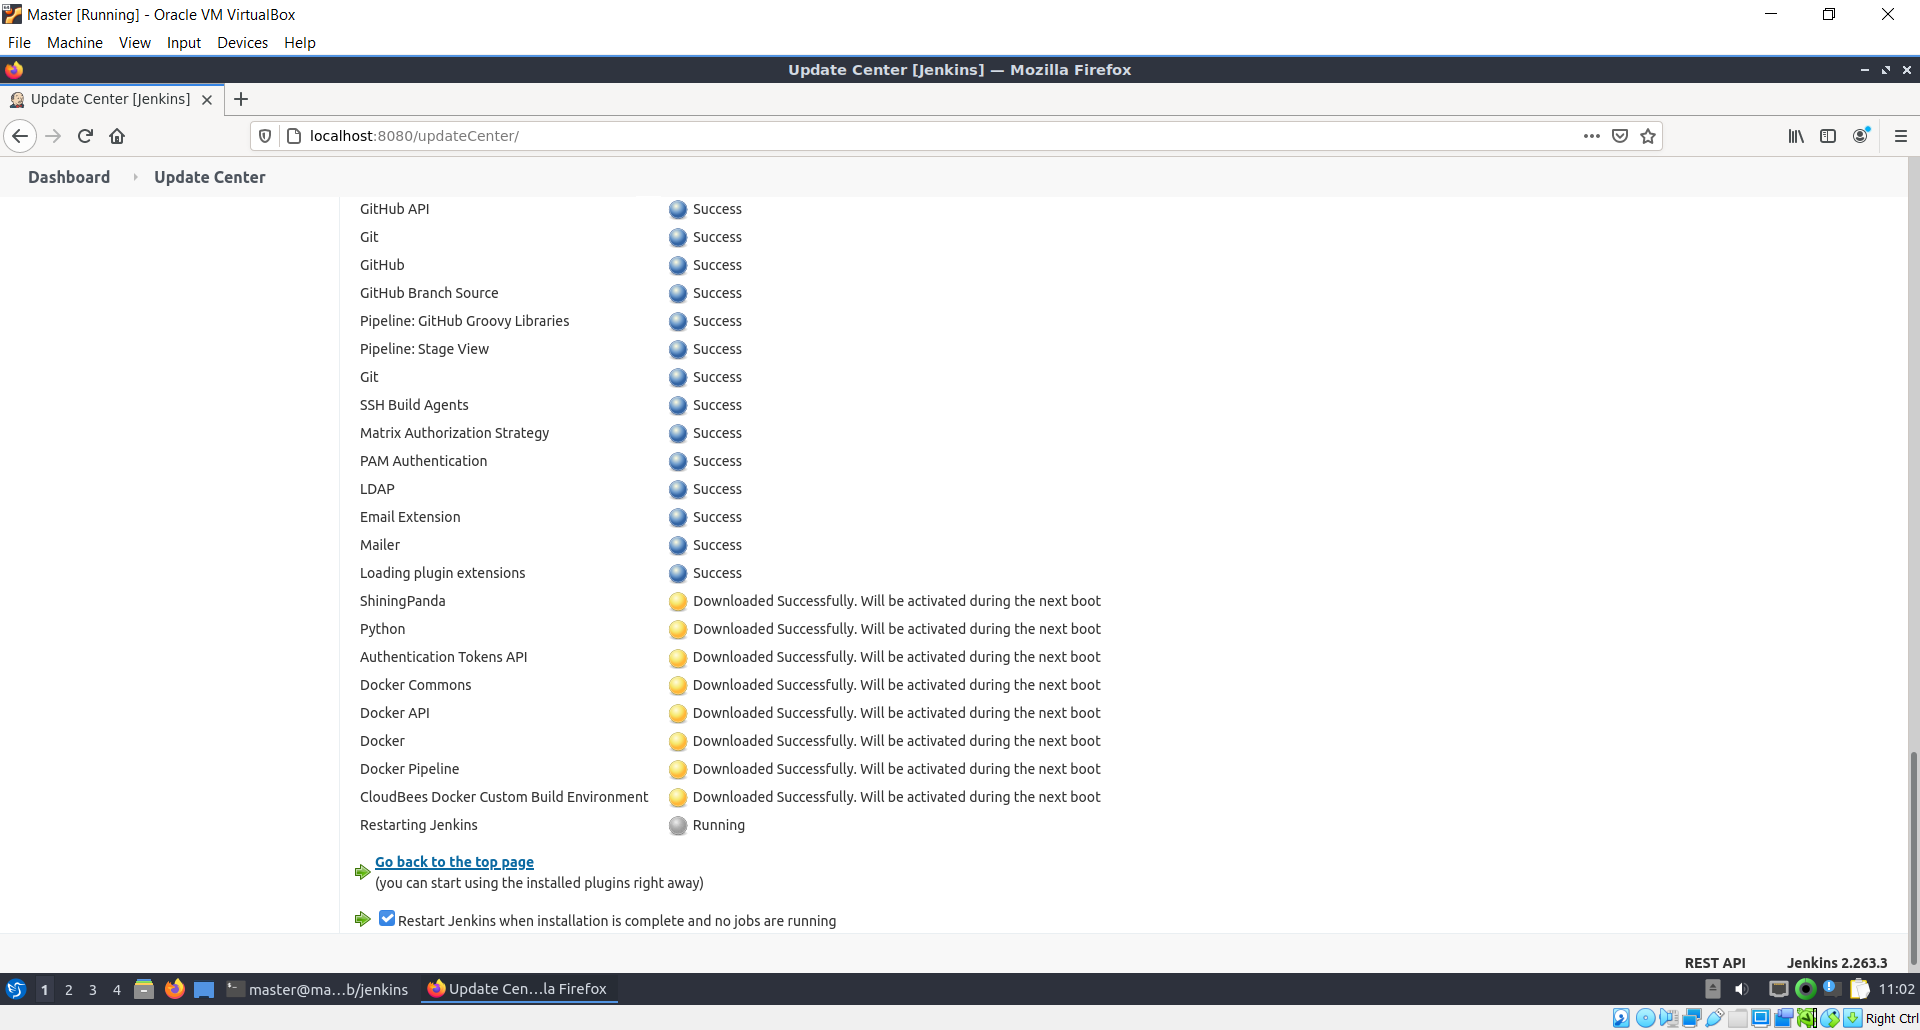
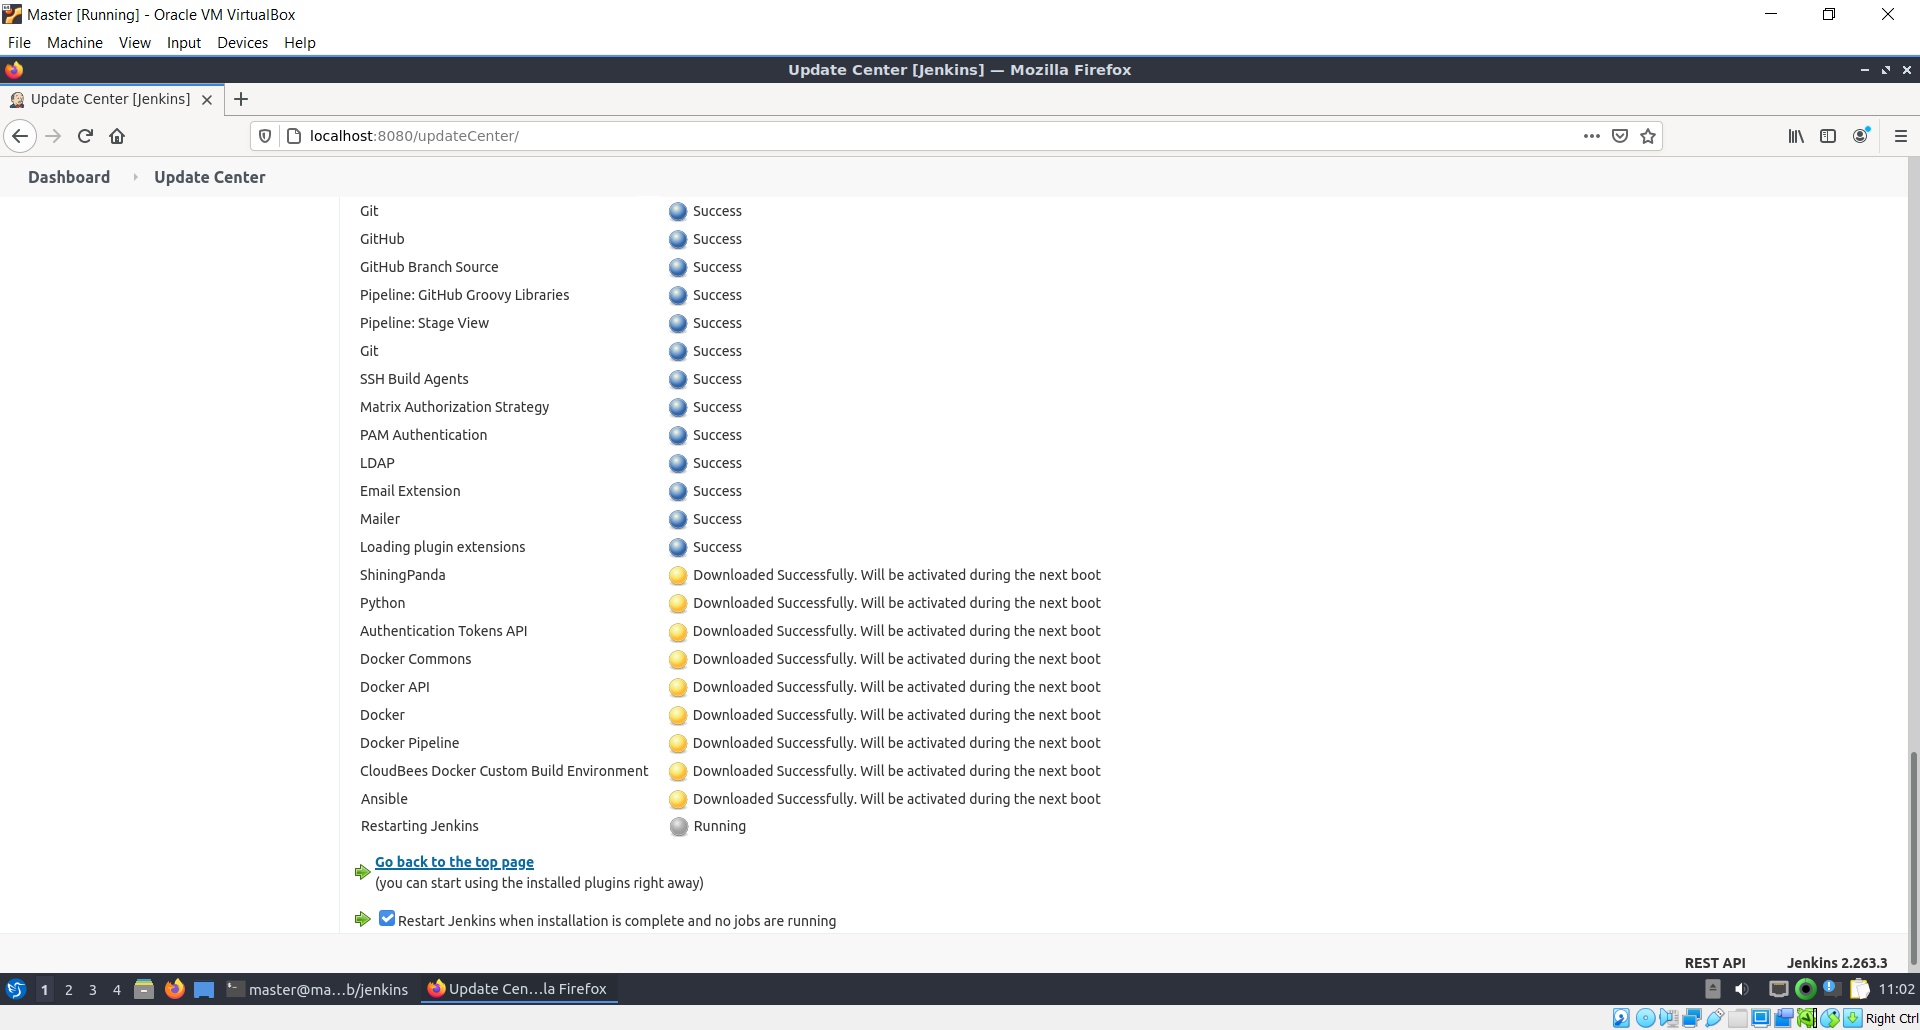
Update config files

Changed region(s): [[0.1875, 0.1864, 0.5938, 0.8078]]

diff --git a/documentation/README.md b/documentation/README.md
@@ -123,6 +123,7 @@ Once Jenkins opens the Dashboard, click ```Manage Jenkins/Manage Plugins/Availab
 3. Docker
 4. Docker Pipeline
 5. CloudBees Docker Custom Build Environment
+6. Ansible
 
 Ensure you have selected all plugins then click ```Download now and install after restart```
 
@@ -141,11 +142,35 @@ For Kind, select ```Username with Password```
 
 Type in your DockerHUB ```Username``` and ```Password```
 
-NOTE: Never check sensitive material into source control!
-
 For ID, type ```dockerhub```
 
+Click ```OK```
+
+NOTE: Never check sensitive material into source control!
+
 ![Screenshot](jenkins-docker-credentials.png)
+
+### G. Add Ansible Credentials ###
+
+Click on ```Manage Jenkins/Manage Credentials/Jenkins/Global credentials (unrestricted)/Add Credentials```
+
+For ```Kind```, select ```SSH Username with private key```
+
+For ```ID```, type ```ansible```
+
+For ```Private Key```, click ```Enter directly```
+
+Run the following command in your Master VM:
+
+    cat ~/.ssh/id_rsa
+
+Click ```Key``` and copy the output from the previous command in the box given to you that says ```Enter New Secret Below```
+
+Click ```OK```
+
+NOTE: Never check sensitive material into source control!
+
+![Screenshot](jenkins-ansible-credentials.png)
 
 
 ## 3. Create a Jenkins Pipeline ##
